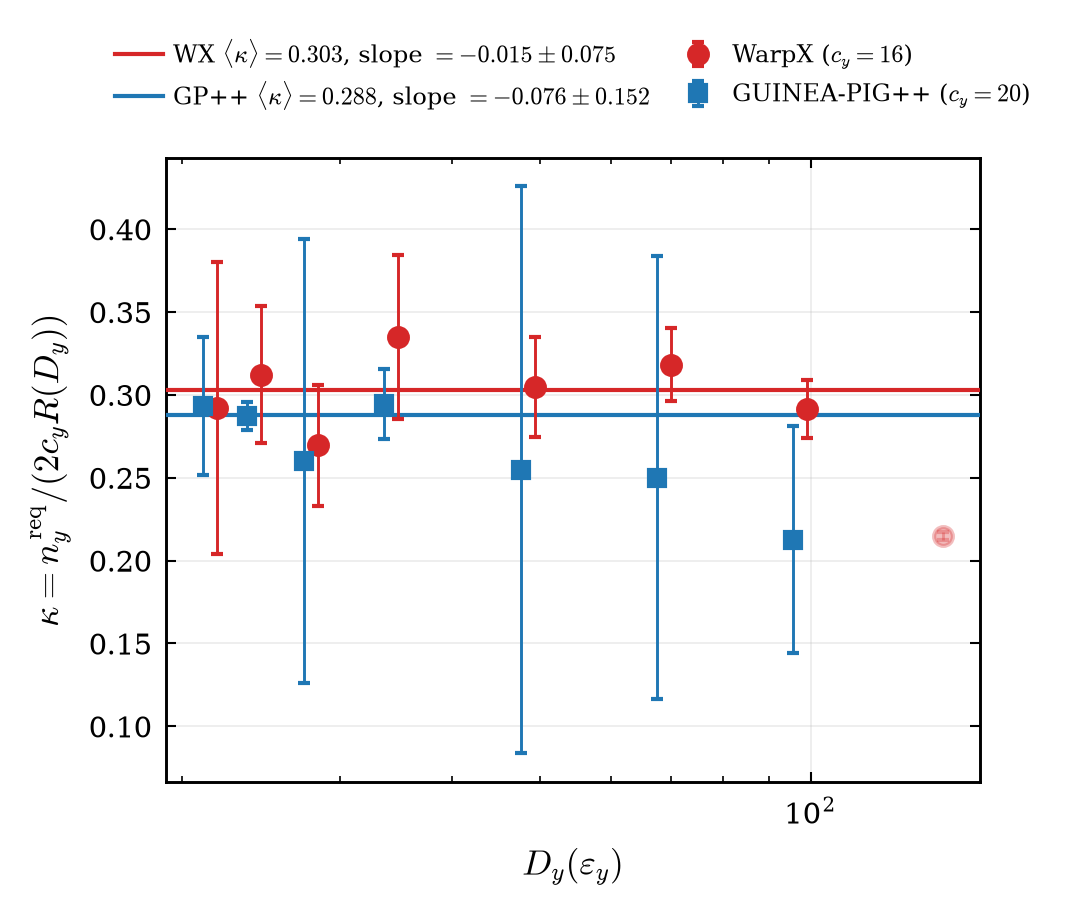
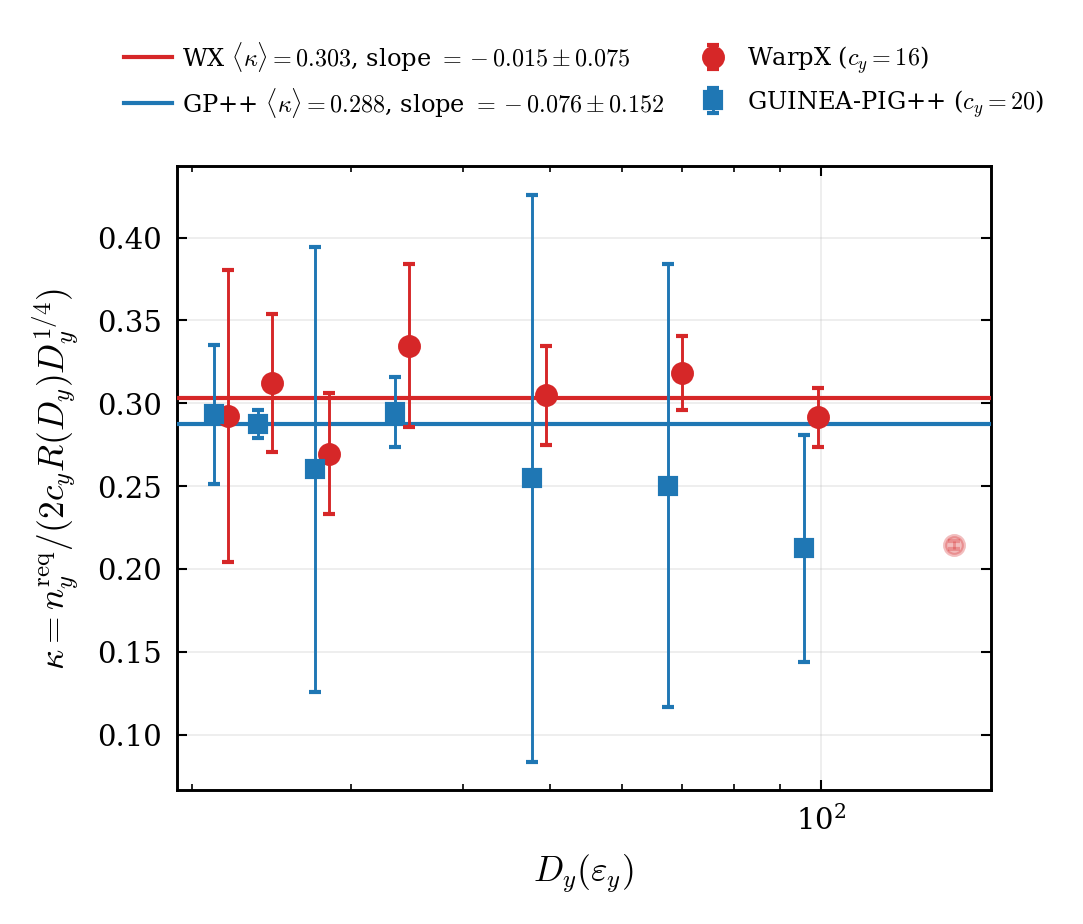
Label the kappa axis with the D_y^(1/4) factor it is computed with
The plotted values already used kappa_from_ny (with D_y^(1/4)); only the
axis label, docstring and header comment omitted the factor.

diff --git a/paper_figures.py b/paper_figures.py
@@ -10,7 +10,7 @@ saved to plots/<name>.{png,pdf}:
   WX_L_vs_ny             (3) all Stage-B ladders: L/L_inf vs n_y per e_y, star at n_y^req
   WX_ny_req_convergence  (4) n_y^req vs D_y: points, weighted fit C_y D_y^q with band, q_n = Q_N with the
                           normalisation fitted (dashed C0), chi2/ndf box
-  kappa_vs_Dy            (5) kappa_i = n_y^req/(2 c_y R(D_y)) vs D_y with the weighted mean. GP++ series from
+  kappa_vs_Dy            (5) kappa_i = n_y^req/(2 c_y R(D_y) D_y^(1/4)) vs D_y with the weighted mean. GP++ series from
                           data/gp_exports/gp_requirements_for_wx.csv.
 
 Run after collect.py.
@@ -256,7 +256,7 @@ def _gp_kappa():
 
 
 def kappa_vs_Dy(B, c_y=None):
-    """kappa_i = n_y^req/(2 c_y R(D_y)) vs D_y for both codes, with weighted means as
+    """kappa_i = n_y^req/(2 c_y R(D_y) D_y^(1/4)) vs D_y for both codes, with weighted means as
     horizontal lines.
 
     c_y defaults to the WarpX deck cut (C_Y_WX = 16); the GP++ series uses its own exported c_y.
@@ -294,7 +294,7 @@ def kappa_vs_Dy(B, c_y=None):
         ax.set_xscale("log")          # y stays LINEAR: kappa spans a narrow range and the test is
         ax.xaxis.set_minor_formatter(mticker.NullFormatter())   # "is the line flat", read better linearly
         ax.set_xlabel(r"$D_y(\varepsilon_y)$")
-        ax.set_ylabel(fr"$\kappa = n_y^{{\mathrm{{req}}}}/(2c_y R(D_y))$")
+        ax.set_ylabel(fr"$\kappa = n_y^{{\mathrm{{req}}}}/(2c_y R(D_y) D_y^{{1/4}})$")
         _ticks_in(ax)
         ax.legend(loc="lower center", bbox_to_anchor=(0.5, 1.06), frameon=False, fontsize=5.8,
                   ncol=2, columnspacing=1.0, handletextpad=0.4, borderaxespad=0.0)
